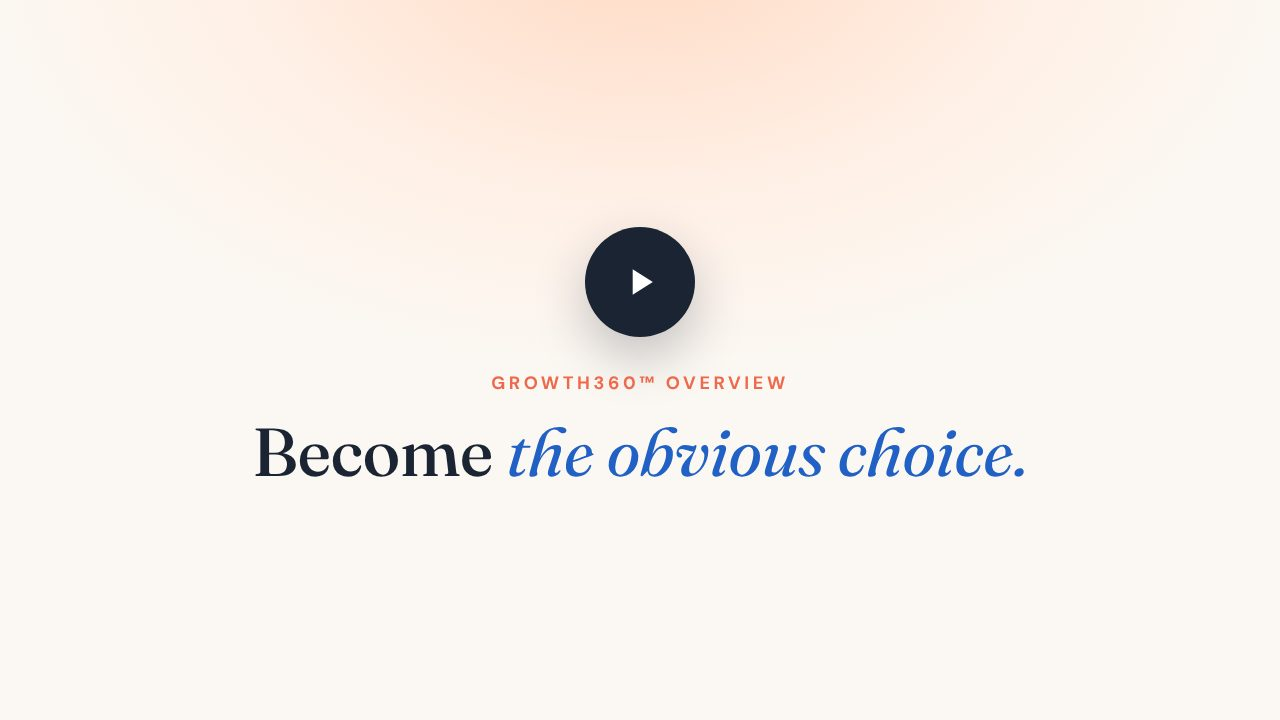
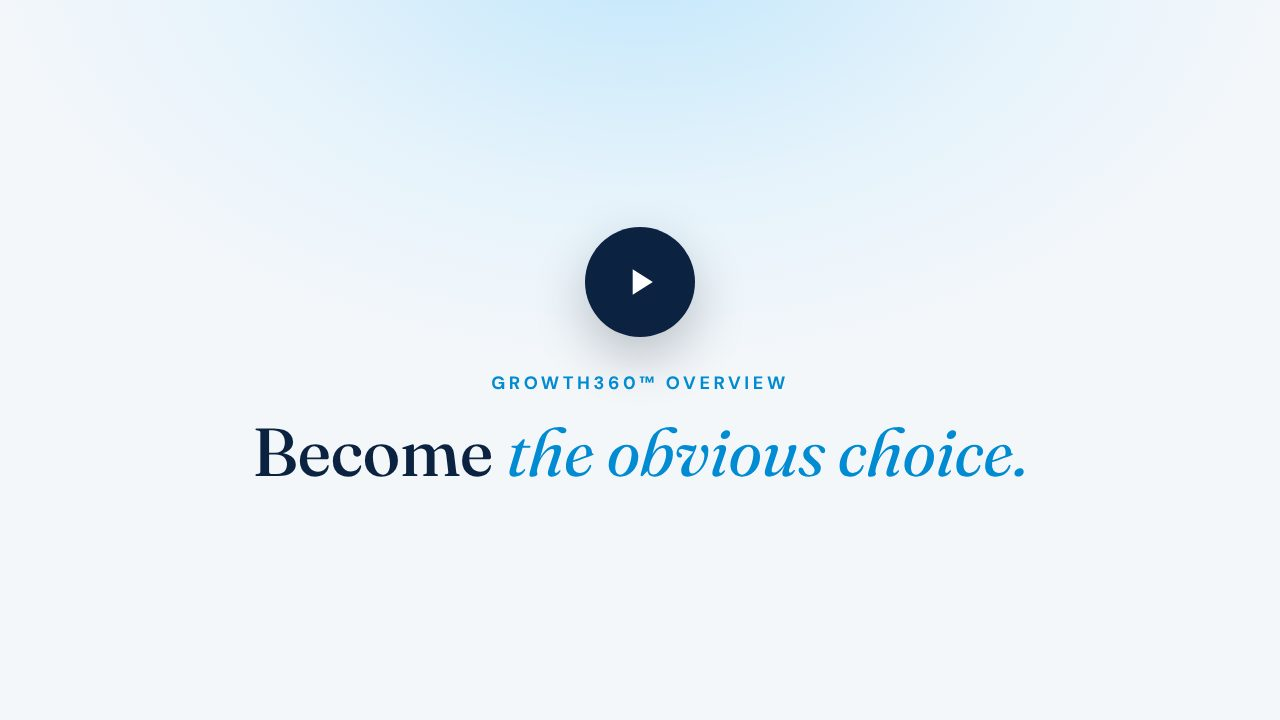
Switch to the danm.progressivemarketing.pro blue palette, no green
Navy (#0b2341), blue (#008bd2), sky (#6dccfa) and mist (#f4f7fa)
replace the warm ivory, coral, pastel, and green accents. Before/after
tags, meters, stats, stars, and illustrations now use blues; share
image, theme screenshot, and video poster regenerated.

Claude-Session: https://claude.ai/code/session_018pQ9Jxz9pM4me8uzc4osee

Changed region(s): [[0.1875, 0.0, 0.8125, 0.3056], [0.375, 0.5806, 0.8125, 0.6722], [0.375, 0.5194, 0.625, 0.55]]

diff --git a/wp-content/themes/progressive-marketing/style.css b/wp-content/themes/progressive-marketing/style.css
@@ -16,39 +16,46 @@ Text Domain: pmc
    Tokens: "morning light"
    ========================================================= */
 :root {
-	--bg: #fbf8f3;
-	--paper: #f5efe6;
+	/* Palette from danm.progressivemarketing.pro */
+	--bg: #ffffff;
+	--paper: #f4f7fa;
 	--surface: #ffffff;
-	--ink: #1b2433;
-	--text: #3a4556;
-	--muted: #6b7585;
-	--line: #ebe4d8;
-	--line-2: #e2dace;
+	--ink: #0b2341;
+	--text: #3d4a5c;
+	--muted: #5b6878;
+	--line: #dce3ea;
+	--line-2: #d3deea;
 
-	--blue: #2160c4;
-	--blue-dark: #174b9e;
-	--coral: #ef6a4c;
-	--green: #1e9e5a;
-	--violet: #6a55d9;
+	--blue: #008bd2;
+	--blue-dark: #0072ad;
+	--navy: #0b2341;
+	--navy-2: #14395f;
+	--navy-3: #102f51;
+	--sky-accent: #6dccfa;
+	--steel: #8ba0b5;
+	--coral: #008bd2;
+	--green: #008bd2;
+	--violet: #14395f;
 
-	--sky: #e7f0fd;
-	--sky-2: #d4e4fb;
-	--peach: #fff0e6;
-	--peach-2: #ffdfcc;
-	--mint: #e5f5eb;
-	--mint-2: #cdebd8;
-	--lilac: #f0ecff;
-	--lilac-2: #ddd5fb;
+	/* Tints (all blue family) */
+	--sky: #e6f3fb;
+	--sky-2: #cfe8f7;
+	--peach: #eef3f9;
+	--peach-2: #dce6f1;
+	--mint: #e3eef8;
+	--mint-2: #cbdff0;
+	--lilac: #edf1f8;
+	--lilac-2: #d3deea;
 
-	--rank-1: #14904a;
-	--rank-4: #d8432c;
+	--rank-1: #14395f;
+	--rank-4: #8ba0b5;
 
 	--radius: 28px;
 	--radius-md: 20px;
 	--radius-sm: 12px;
-	--shadow-sm: 0 1px 2px rgba(27, 36, 51, .05);
-	--shadow: 0 1px 2px rgba(27, 36, 51, .04), 0 14px 34px rgba(27, 36, 51, .07);
-	--shadow-lg: 0 2px 4px rgba(27, 36, 51, .04), 0 30px 70px rgba(27, 36, 51, .12);
+	--shadow-sm: 0 1px 2px rgba(11, 35, 65, .05);
+	--shadow: 0 1px 2px rgba(11, 35, 65, .04), 0 14px 34px rgba(11, 35, 65, .08);
+	--shadow-lg: 0 2px 4px rgba(11, 35, 65, .04), 0 30px 70px rgba(11, 35, 65, .14);
 
 	--serif: "Fraunces", "Iowan Old Style", Georgia, serif;
 	--sans: "DM Sans", system-ui, -apple-system, "Segoe UI", Roboto, sans-serif;
@@ -73,8 +80,8 @@ h2 { font-size: clamp(2rem, 4vw, 3.2rem); }
 h3 { font-family: var(--sans); font-size: 1.2rem; font-weight: 700; letter-spacing: -.01em; line-height: 1.3; }
 h1 em, h2 em, .footer-statement em { font-style: italic; color: var(--blue); font-weight: 400; }
 p { margin: 0 0 1em; }
-:focus-visible { outline: 3px solid var(--blue); outline-offset: 3px; border-radius: 8px; }
-::selection { background: var(--peach-2); color: var(--ink); }
+:focus-visible { outline: 3px solid var(--sky-accent); outline-offset: 3px; border-radius: 8px; }
+::selection { background: var(--sky-2); color: var(--ink); }
 .screen-reader-text, .hp { position: absolute !important; width: 1px; height: 1px; padding: 0; margin: -1px; overflow: hidden; clip: rect(0, 0, 0, 0); white-space: nowrap; border: 0; }
 .skip-link { position: absolute; left: 12px; top: -60px; z-index: 200; background: var(--ink); color: #fff; padding: 10px 16px; border-radius: var(--radius-sm); }
 .skip-link:focus { top: 12px; color: #fff; }
@@ -89,8 +96,8 @@ p { margin: 0 0 1em; }
 .tint-mint { background: var(--mint); }
 .tint-lilac { background: var(--lilac); }
 
-.scroll-progress { position: fixed; top: 0; left: 0; height: 3px; width: 100%; z-index: 120; background: linear-gradient(90deg, var(--coral), #f7b267, var(--blue)); transform-origin: 0 50%; transform: scaleX(var(--progress, 0)); }
-.staging-bar { background: #fff4c2; color: #5c4a00; text-align: center; font-size: .8rem; font-weight: 600; padding: 4px 12px; }
+.scroll-progress { position: fixed; top: 0; left: 0; height: 3px; width: 100%; z-index: 120; background: linear-gradient(90deg, var(--navy), var(--blue), var(--sky-accent)); transform-origin: 0 50%; transform: scaleX(var(--progress, 0)); }
+.staging-bar { background: var(--sky-2); color: var(--navy); text-align: center; font-size: .8rem; font-weight: 600; padding: 4px 12px; }
 
 /* =========================================================
    Buttons, eyebrows, pills, links
@@ -100,9 +107,9 @@ p { margin: 0 0 1em; }
 .btn:hover { transform: translateY(-2px); }
 .btn:hover .icon { transform: translateX(3px); }
 .btn-lg { padding: 1.05em 1.75em; font-size: 1rem; }
-.btn-primary { background: var(--ink); color: #fff; box-shadow: 0 10px 24px rgba(27, 36, 51, .18); }
-.btn-primary:hover { background: var(--blue); color: #fff; box-shadow: 0 14px 30px rgba(33, 96, 196, .28); }
-.btn-ghost { border-color: var(--line-2); color: var(--ink); background: rgba(255, 255, 255, .6); }
+.btn-primary { background: var(--navy); color: #fff; box-shadow: 0 10px 24px rgba(11, 35, 65, .2); }
+.btn-primary:hover { background: var(--blue); color: #fff; box-shadow: 0 14px 30px rgba(0, 139, 210, .3); }
+.btn-ghost { border-color: var(--line-2); color: var(--ink); background: #fff; }
 .btn-ghost:hover { border-color: var(--ink); color: var(--ink); background: #fff; }
 .btn-block { width: 100%; }
 
@@ -110,8 +117,8 @@ p { margin: 0 0 1em; }
 .eyebrow-icon { display: inline-flex; }
 .eyebrow-icon .icon { width: 1.3em; height: 1.3em; }
 .pill { display: inline-flex; align-items: center; gap: 10px; padding: 8px 16px 8px 12px; border-radius: 999px; background: #fff; border: 1px solid var(--line); box-shadow: var(--shadow-sm); font-size: .88rem; font-weight: 600; color: var(--ink); margin: 0 0 28px; }
-.pill-dot { width: 9px; height: 9px; border-radius: 50%; background: var(--green); box-shadow: 0 0 0 4px var(--mint-2); animation: blinkDot 2.4s ease-in-out infinite; }
-@keyframes blinkDot { 50% { box-shadow: 0 0 0 7px rgba(205, 235, 216, .4); } }
+.pill-dot { width: 9px; height: 9px; border-radius: 50%; background: var(--blue); box-shadow: 0 0 0 4px var(--sky-2); animation: blinkDot 2.4s ease-in-out infinite; }
+@keyframes blinkDot { 50% { box-shadow: 0 0 0 7px rgba(109, 204, 250, .25); } }
 .link-arrow { display: inline-flex; align-items: center; gap: .45em; font-weight: 700; text-decoration: none; color: var(--ink); }
 .link-arrow .icon { transition: transform .25s var(--ease); color: var(--coral); }
 .link-arrow:hover { color: var(--blue); }
@@ -123,12 +130,12 @@ p { margin: 0 0 1em; }
 /* =========================================================
    Header
    ========================================================= */
-.topbar { background: var(--ink); color: #dfe6f0; font-size: .86rem; }
+.topbar { background: var(--navy); color: #dce6f1; font-size: .86rem; }
 .topbar-inner { padding-top: 8px; padding-bottom: 8px; text-align: center; }
 .topbar p { margin: 0; }
 .topbar a { color: #fff; font-weight: 700; text-decoration: none; }
 .site-header { position: sticky; top: 0; z-index: 100; padding: 12px 0; transition: padding .3s; }
-.header-inner { display: flex; align-items: center; justify-content: space-between; gap: 20px; min-height: 64px; background: rgba(255, 255, 255, .78); backdrop-filter: saturate(1.6) blur(16px); -webkit-backdrop-filter: saturate(1.6) blur(16px); border: 1px solid rgba(235, 228, 216, .9); border-radius: 999px; padding: 0 10px 0 26px; max-width: calc(var(--container) - 2 * var(--gutter) + 40px); box-shadow: var(--shadow-sm); transition: box-shadow .3s; }
+.header-inner { display: flex; align-items: center; justify-content: space-between; gap: 20px; min-height: 64px; background: rgba(255, 255, 255, .78); backdrop-filter: saturate(1.6) blur(16px); -webkit-backdrop-filter: saturate(1.6) blur(16px); border: 1px solid rgba(220, 227, 234, .9); border-radius: 999px; padding: 0 10px 0 26px; max-width: calc(var(--container) - 2 * var(--gutter) + 40px); box-shadow: var(--shadow-sm); transition: box-shadow .3s; }
 .site-header.is-scrolled .header-inner { box-shadow: var(--shadow); background: rgba(255, 255, 255, .92); }
 .brand { display: inline-flex; flex: none; }
 .brand-img { height: 34px; width: auto; }
@@ -175,7 +182,7 @@ p { margin: 0 0 1em; }
 .section { padding: clamp(72px, 9vw, 128px) 0; position: relative; }
 .section-tight { padding: clamp(32px, 5vw, 64px) 0; }
 .section-paper { background: var(--paper); }
-.section-tint { background: linear-gradient(180deg, var(--sky) 0%, #f3f7fe 100%); }
+.section-tint { background: linear-gradient(180deg, var(--paper) 0%, #eaf2f9 100%); }
 .sec-head { max-width: 780px; margin-bottom: clamp(36px, 5vw, 56px); }
 .sec-title { margin-bottom: .3em; }
 .sec-lead { font-size: clamp(1.05rem, 1.5vw, 1.2rem); color: var(--muted); margin: 0; }
@@ -192,7 +199,7 @@ p { margin: 0 0 1em; }
    Hero (home)
    ========================================================= */
 .hero { position: relative; overflow: hidden; padding: clamp(48px, 7vw, 96px) 0 clamp(56px, 7vw, 96px); }
-.hero-sun { position: absolute; left: 50%; top: -340px; width: 1400px; height: 900px; transform: translateX(-50%); pointer-events: none; background: radial-gradient(closest-side, rgba(255, 210, 180, .75), rgba(255, 233, 214, .45) 45%, rgba(231, 240, 253, .35) 70%, transparent 100%); filter: blur(10px); animation: sunrise 2.4s var(--ease) both; }
+.hero-sun { position: absolute; left: 50%; top: -340px; width: 1400px; height: 900px; transform: translateX(-50%); pointer-events: none; background: radial-gradient(closest-side, rgba(109, 204, 250, .38), rgba(207, 232, 247, .45) 45%, rgba(244, 247, 250, .4) 70%, transparent 100%); filter: blur(10px); animation: sunrise 2.4s var(--ease) both; }
 @keyframes sunrise { from { transform: translate(-50%, 80px); opacity: 0; } }
 .hero-center { position: relative; text-align: center; }
 .hero-center h1 { max-width: 13em; margin-left: auto; margin-right: auto; }
@@ -209,7 +216,7 @@ p { margin: 0 0 1em; }
 .ft-switch { position: relative; display: inline-grid; grid-template-columns: 1fr 1fr; margin: 0 auto 22px; padding: 6px; border-radius: 999px; background: #fff; border: 1px solid var(--line); box-shadow: var(--shadow); left: 50%; transform: translateX(-50%); }
 .ft-switch button { position: relative; z-index: 1; font: inherit; font-weight: 700; font-size: .95rem; padding: 12px 24px; border: 0; background: none; color: var(--muted); border-radius: 999px; cursor: pointer; transition: color .3s; white-space: nowrap; }
 .ft-switch button[aria-pressed="true"] { color: #fff; }
-.ft-thumb { position: absolute; top: 6px; bottom: 6px; left: 6px; width: calc(50% - 6px); border-radius: 999px; background: var(--ink); transition: transform .5s var(--ease), background .5s; }
+.ft-thumb { position: absolute; top: 6px; bottom: 6px; left: 6px; width: calc(50% - 6px); border-radius: 999px; background: var(--navy); transition: transform .5s var(--ease), background .5s; }
 .is-future .ft-thumb { transform: translateX(100%); background: var(--blue); }
 .ft-grid { display: grid; grid-template-columns: repeat(5, 1fr); gap: 14px; }
 .ft-tile { position: relative; padding: 22px 20px 20px; border-radius: var(--radius-md); min-height: 210px; display: flex; flex-direction: column; transition: transform .5s var(--ease), box-shadow .5s; }
@@ -231,7 +238,7 @@ p { margin: 0 0 1em; }
 .marquee-track { display: flex; gap: 12px; width: max-content; animation: marquee 60s linear infinite; }
 .marquee:hover .marquee-track { animation-play-state: paused; }
 .marquee span { display: inline-flex; align-items: center; gap: 8px; padding: 8px 16px; border-radius: 999px; background: var(--bg); border: 1px solid var(--line); font-weight: 600; font-size: .9rem; color: var(--ink); white-space: nowrap; }
-.marquee b { font-size: .72rem; color: #fff; background: var(--rank-1); padding: 2px 7px; border-radius: 6px; }
+.marquee b { font-size: .72rem; color: #fff; background: var(--blue); padding: 2px 7px; border-radius: 6px; }
 @keyframes marquee { to { transform: translateX(-50%); } }
 
 /* Stats */
@@ -254,7 +261,7 @@ p { margin: 0 0 1em; }
 .day-card h3 { margin-bottom: .35em; }
 .day-card p { margin: 0; color: var(--text); }
 .day-sun { height: 4px; border-radius: 4px; background: var(--line); overflow: hidden; margin-top: 6px; }
-.day-sun span { display: block; height: 100%; width: 20%; border-radius: 4px; background: linear-gradient(90deg, #f7b267, var(--coral)); transition: width .3s; }
+.day-sun span { display: block; height: 100%; width: 20%; border-radius: 4px; background: linear-gradient(90deg, var(--sky-accent), var(--blue)); transition: width .3s; }
 .day .fine-print { margin: 12px 0 0; }
 
 /* Future pillars */
@@ -269,7 +276,7 @@ p { margin: 0 0 1em; }
    Interior page heroes
    ========================================================= */
 .page-hero { position: relative; overflow: hidden; padding: clamp(56px, 8vw, 112px) 0 clamp(48px, 7vw, 96px); }
-.page-hero::before { content: ""; position: absolute; right: -200px; top: -260px; width: 820px; height: 720px; pointer-events: none; background: radial-gradient(closest-side, rgba(255, 214, 190, .7), rgba(231, 240, 253, .5) 60%, transparent); filter: blur(6px); }
+.page-hero::before { content: ""; position: absolute; right: -200px; top: -260px; width: 820px; height: 720px; pointer-events: none; background: radial-gradient(closest-side, rgba(109, 204, 250, .35), rgba(220, 230, 241, .55) 60%, transparent); filter: blur(6px); }
 .page-hero > .container { position: relative; }
 .page-hero-inner > * { max-width: 880px; }
 .page-hero-sm { padding: clamp(40px, 6vw, 72px) 0; }
@@ -290,14 +297,14 @@ p { margin: 0 0 1em; }
 .compare-slider { position: relative; aspect-ratio: 285 / 356; border-radius: var(--radius-md); overflow: hidden; background: #fff; user-select: none; touch-action: pan-y; }
 .cs-img { position: absolute; inset: 0; width: 100%; height: 100%; object-fit: cover; }
 .cs-after { clip-path: inset(0 0 0 var(--pos)); }
-.cs-handle { position: absolute; top: 0; bottom: 0; left: var(--pos); width: 3px; margin-left: -1.5px; background: #fff; box-shadow: 0 0 0 1px rgba(27, 36, 51, .12); pointer-events: none; }
-.cs-knob { position: absolute; top: 50%; left: 50%; display: flex; align-items: center; justify-content: center; width: 42px; height: 42px; transform: translate(-50%, -50%); border-radius: 50%; background: #fff; color: var(--ink); box-shadow: 0 6px 18px rgba(27, 36, 51, .25); }
+.cs-handle { position: absolute; top: 0; bottom: 0; left: var(--pos); width: 3px; margin-left: -1.5px; background: #fff; box-shadow: 0 0 0 1px rgba(11, 35, 65, .12); pointer-events: none; }
+.cs-knob { position: absolute; top: 50%; left: 50%; display: flex; align-items: center; justify-content: center; width: 42px; height: 42px; transform: translate(-50%, -50%); border-radius: 50%; background: #fff; color: var(--ink); box-shadow: 0 6px 18px rgba(11, 35, 65, .25); }
 .cs-knob svg { max-width: none; }
 .cs-range { position: absolute; inset: 0; width: 100%; height: 100%; margin: 0; opacity: 0; cursor: ew-resize; z-index: 2; }
 .cs-range:focus-visible ~ .cs-handle .cs-knob { outline: 3px solid var(--blue); outline-offset: 2px; }
 .cs-tag { position: absolute; top: 10px; font-size: .64rem; font-weight: 800; letter-spacing: .1em; text-transform: uppercase; padding: 4px 9px; border-radius: 999px; pointer-events: none; z-index: 1; }
-.cs-tag-before { left: 10px; background: #fdecea; color: #b42318; }
-.cs-tag-after { right: 10px; background: #e3f5e9; color: var(--rank-1); }
+.cs-tag-before { left: 10px; background: #fff; color: var(--muted); box-shadow: var(--shadow-sm); }
+.cs-tag-after { right: 10px; background: var(--navy); color: #fff; }
 
 /* Case cards */
 .case-grid { display: grid; grid-template-columns: repeat(4, 1fr); gap: 16px; }
@@ -332,8 +339,8 @@ p { margin: 0 0 1em; }
 .result-kw { font-weight: 700; color: var(--ink); font-size: 1.05rem; line-height: 1.3; }
 .result-row { display: flex; flex-direction: column; gap: 4px; color: var(--text); }
 .tag { align-self: flex-start; font-size: .64rem; font-weight: 800; letter-spacing: .1em; text-transform: uppercase; padding: 3px 9px; border-radius: 999px; }
-.tag-before { background: #fdecea; color: #b42318; }
-.tag-after { background: #e3f5e9; color: var(--rank-1); }
+.tag-before { background: var(--paper); color: var(--muted); }
+.tag-after { background: var(--navy); color: #fff; }
 
 /* =========================================================
    AI answer demo (light search card)
@@ -341,7 +348,7 @@ p { margin: 0 0 1em; }
 .ai-demo { width: 100%; }
 .ai-tabs { display: flex; flex-wrap: wrap; gap: 8px; margin-bottom: 14px; }
 .ai-tabs button { font: inherit; font-size: .86rem; font-weight: 600; padding: 8px 16px; border-radius: 999px; border: 1px solid var(--line-2); background: rgba(255, 255, 255, .7); color: var(--text); cursor: pointer; transition: .2s; }
-.ai-tabs button[aria-selected="true"] { background: #fff; color: var(--ink); border-color: var(--blue); box-shadow: 0 0 0 3px rgba(33, 96, 196, .12); }
+.ai-tabs button[aria-selected="true"] { background: #fff; color: var(--ink); border-color: var(--blue); box-shadow: 0 0 0 3px rgba(0, 139, 210, .14); }
 .ai-window { border-radius: var(--radius); background: #fff; box-shadow: var(--shadow-lg); overflow: hidden; }
 .ai-bar { display: flex; align-items: center; gap: 10px; padding: 16px 20px; border-bottom: 1px solid var(--line); }
 .ai-bar span { display: none; }
@@ -350,9 +357,9 @@ p { margin: 0 0 1em; }
 .ai-chat { padding: 22px; min-height: 240px; }
 .ai-q { margin: 0 0 18px; padding: 14px 18px; border-radius: 16px; background: var(--bg); color: var(--ink); font-weight: 600; font-size: 1.02rem; }
 .ai-a { display: flex; gap: 14px; align-items: flex-start; }
-.ai-avatar { flex: none; display: inline-flex; align-items: center; justify-content: center; width: 36px; height: 36px; border-radius: 50%; background: linear-gradient(135deg, var(--lilac-2), var(--sky-2)); color: var(--violet); }
+.ai-avatar { flex: none; display: inline-flex; align-items: center; justify-content: center; width: 36px; height: 36px; border-radius: 50%; background: linear-gradient(135deg, var(--sky-2), var(--sky-accent)); color: var(--navy); }
 .ai-a p { margin: 0; color: var(--text); }
-.ai-a b { color: var(--ink); background: linear-gradient(transparent 58%, var(--peach-2) 58%); }
+.ai-a b { color: var(--ink); background: linear-gradient(transparent 58%, var(--sky-2) 58%); }
 .ai-a p.is-typing::after { content: "▍"; color: var(--coral); animation: blink 1s steps(2) infinite; }
 @keyframes blink { 50% { opacity: 0; } }
 .ai-demo .fine-print { margin: 12px 0 0; }
@@ -390,9 +397,9 @@ p { margin: 0 0 1em; }
    ========================================================= */
 .svc-grid { display: grid; grid-template-columns: repeat(3, 1fr); gap: 16px; }
 .svc-grid-2 { grid-template-columns: repeat(2, 1fr); }
-.svc-card { position: relative; display: flex; flex-direction: column; padding: 34px 30px 30px; border-radius: var(--radius); background: #fff; text-decoration: none; color: var(--text); overflow: hidden; transition: transform .35s var(--ease), box-shadow .35s; }
+.svc-card { position: relative; display: flex; flex-direction: column; padding: 34px 30px 30px; border-radius: var(--radius); background: #fff; border: 1px solid var(--line); text-decoration: none; color: var(--text); overflow: hidden; transition: transform .35s var(--ease), box-shadow .35s; }
 .svc-card:hover { transform: translateY(-4px); box-shadow: var(--shadow); color: var(--text); }
-.svc-num { position: absolute; top: 22px; right: 26px; font-family: var(--serif); font-size: 4.5rem; line-height: 1; color: rgba(27, 36, 51, .07); }
+.svc-num { position: absolute; top: 22px; right: 26px; font-family: var(--serif); font-size: 4.5rem; line-height: 1; color: rgba(11, 35, 65, .07); }
 .svc-icon { display: inline-flex; align-items: center; justify-content: center; width: 52px; height: 52px; border-radius: 16px; background: #fff; color: var(--blue); margin-bottom: 26px; box-shadow: var(--shadow-sm); }
 .svc-icon .icon { width: 25px; height: 25px; }
 .svc-card h3 { font-family: var(--serif); font-weight: 500; font-size: 1.7rem; letter-spacing: -.015em; margin-bottom: .15em; }
@@ -423,7 +430,7 @@ p { margin: 0 0 1em; }
 /* Testimonial */
 .testimonial-section { padding-top: clamp(40px, 6vw, 80px); padding-bottom: clamp(40px, 6vw, 80px); }
 .testimonial { margin: 0; text-align: center; padding: clamp(40px, 6vw, 72px) clamp(24px, 6vw, 72px); border-radius: var(--radius); background: var(--peach); }
-.stars { display: inline-flex; gap: 4px; color: #f2a33a; margin-bottom: 24px; }
+.stars { display: inline-flex; gap: 4px; color: var(--blue); margin-bottom: 24px; }
 .stars .icon { width: 22px; height: 22px; fill: currentColor; }
 .testimonial blockquote { margin: 0 0 24px; }
 .testimonial blockquote p { font-family: var(--serif); font-size: clamp(1.5rem, 2.8vw, 2.2rem); line-height: 1.3; color: var(--ink); letter-spacing: -.01em; margin: 0; }
@@ -444,11 +451,11 @@ p { margin: 0 0 1em; }
 
 /* Final CTA */
 .cta-final { padding: clamp(40px, 6vw, 80px) 0 clamp(72px, 9vw, 120px); }
-.cta-inner { position: relative; overflow: hidden; text-align: center; padding: clamp(56px, 8vw, 104px) clamp(24px, 5vw, 64px); border-radius: 40px; background: linear-gradient(135deg, var(--peach) 0%, #fff6e8 40%, var(--sky) 100%); }
+.cta-inner { position: relative; overflow: hidden; text-align: center; padding: clamp(56px, 8vw, 104px) clamp(24px, 5vw, 64px); border-radius: 40px; background: linear-gradient(135deg, #eaf4fb 0%, var(--paper) 45%, #dce6f1 100%); }
 .cta-glow { display: none; }
 .cta-inner::before, .cta-inner::after { content: ""; position: absolute; border-radius: 50%; pointer-events: none; }
-.cta-inner::before { width: 360px; height: 360px; left: -120px; bottom: -160px; background: rgba(255, 223, 204, .8); animation: drift 12s ease-in-out infinite; }
-.cta-inner::after { width: 300px; height: 300px; right: -90px; top: -120px; background: rgba(212, 228, 251, .9); animation: drift 14s ease-in-out infinite reverse; }
+.cta-inner::before { width: 360px; height: 360px; left: -120px; bottom: -160px; background: rgba(109, 204, 250, .22); animation: drift 12s ease-in-out infinite; }
+.cta-inner::after { width: 300px; height: 300px; right: -90px; top: -120px; background: rgba(0, 139, 210, .12); animation: drift 14s ease-in-out infinite reverse; }
 @keyframes drift { 50% { transform: translate(30px, -20px); } }
 .cta-inner > * { position: relative; z-index: 1; }
 .cta-final h2 { font-size: clamp(2.2rem, 5vw, 4rem); max-width: 13em; margin: 0 auto .35em; }
@@ -459,7 +466,7 @@ p { margin: 0 0 1em; }
 
 /* Growth360 */
 .brief-card { background: #fff; color: var(--text); border-radius: var(--radius); padding: 32px; box-shadow: var(--shadow-lg); max-width: 440px; margin-left: auto; position: relative; }
-.brief-card::before { content: ""; position: absolute; inset: 0 0 auto; height: 8px; border-radius: var(--radius) var(--radius) 0 0; background: linear-gradient(90deg, var(--coral), #f7b267, var(--blue)); }
+.brief-card::before { content: ""; position: absolute; inset: 0 0 auto; height: 8px; border-radius: var(--radius) var(--radius) 0 0; background: linear-gradient(90deg, var(--navy), var(--blue), var(--sky-accent)); }
 .brief-top { display: flex; justify-content: space-between; gap: 12px; font-size: .7rem; font-weight: 700; letter-spacing: .1em; text-transform: uppercase; color: var(--muted); }
 .brief-title { font-family: var(--serif); font-size: 2.4rem; color: var(--ink); margin: 18px 0 16px; line-height: 1; }
 .brief-list { list-style: none; margin: 0 0 18px; padding: 0; }
@@ -494,13 +501,13 @@ p { margin: 0 0 1em; }
 .ripple-viz { margin: 0; text-align: center; padding: 28px; border-radius: var(--radius); background: #fff; box-shadow: var(--shadow); }
 .ripple-viz svg { width: 100%; max-width: 420px; margin: 0 auto; overflow: visible; }
 .rp-ring { fill: none; stroke: var(--line-2); stroke-dasharray: 3 6; }
-.rp-core { fill: var(--coral); }
+.rp-core { fill: var(--navy); }
 .rp-core-label { fill: #fff; font: 700 13px var(--sans); }
 .rp-line { stroke: var(--line-2); stroke-width: 1.4; stroke-dasharray: 200; stroke-dashoffset: 200; }
 .rp-dot { opacity: 0; transform-box: fill-box; transform-origin: center; transform: scale(0); }
-.rp-dot.g1 { fill: var(--coral); }
+.rp-dot.g1 { fill: var(--navy-2); }
 .rp-dot.g2 { fill: var(--blue); }
-.rp-dot.g3 { fill: var(--green); }
+.rp-dot.g3 { fill: var(--sky-accent); }
 .is-live .rp-line { animation: rpLine .6s var(--ease) forwards; }
 .is-live .rp-dot { animation: rpDot .5s var(--ease) forwards; }
 .is-live .g1 { animation-delay: calc(.3s + var(--i) * .08s); }
@@ -511,9 +518,9 @@ p { margin: 0 0 1em; }
 .ripple-viz figcaption { display: flex; flex-wrap: wrap; justify-content: center; gap: 8px 20px; margin: 18px 0; font-size: .86rem; color: var(--muted); }
 .ripple-viz figcaption span { display: inline-flex; align-items: center; gap: 8px; }
 .ripple-viz .k { width: 10px; height: 10px; border-radius: 50%; }
-.ripple-viz .k.g1 { background: var(--coral); }
+.ripple-viz .k.g1 { background: var(--navy-2); }
 .ripple-viz .k.g2 { background: var(--blue); }
-.ripple-viz .k.g3 { background: var(--green); }
+.ripple-viz .k.g3 { background: var(--sky-accent); }
 .ripple-viz .fine-print { margin-top: 12px; }
 
 /* About */
@@ -543,11 +550,11 @@ p { margin: 0 0 1em; }
 .field label { display: block; font-size: .86rem; font-weight: 700; color: var(--ink); margin-bottom: 6px; }
 .req { color: var(--coral); }
 .field input, .field select, .field textarea { width: 100%; font: inherit; font-size: 1rem; color: var(--ink); background: var(--bg); border: 1.5px solid var(--line); border-radius: 14px; padding: 12px 14px; transition: border-color .2s, box-shadow .2s, background .2s; }
-.field input:focus, .field select:focus, .field textarea:focus { outline: none; background: #fff; border-color: var(--blue); box-shadow: 0 0 0 4px rgba(33, 96, 196, .12); }
+.field input:focus, .field select:focus, .field textarea:focus { outline: none; background: #fff; border-color: var(--blue); box-shadow: 0 0 0 4px rgba(0, 139, 210, .12); }
 .form-help { font-size: .85rem; color: var(--muted); margin-bottom: 20px; }
 .signup-form .btn { width: 100%; }
 .form-notice { padding: 18px 20px; border-radius: 14px; margin: 20px 0; }
-.form-notice.is-success { background: var(--mint); color: #0f5c2b; }
+.form-notice.is-success { background: var(--sky); color: var(--navy); }
 .form-notice.is-error { background: #fdecea; color: #8a1c12; }
 .ghl-embed { margin-top: 16px; }
 .ghl-embed iframe { display: block; width: 100%; min-height: 400px; }

diff --git a/wp-content/themes/progressive-marketing/header.php b/wp-content/themes/progressive-marketing/header.php
@@ -11,7 +11,7 @@ defined( 'ABSPATH' ) || exit;
 <head>
 <meta charset="<?php bloginfo( 'charset' ); ?>">
 <meta name="viewport" content="width=device-width, initial-scale=1">
-<meta name="theme-color" content="#fbf8f3">
+<meta name="theme-color" content="#ffffff">
 <?php wp_head(); ?>
 </head>
 <body <?php body_class(); ?>>
